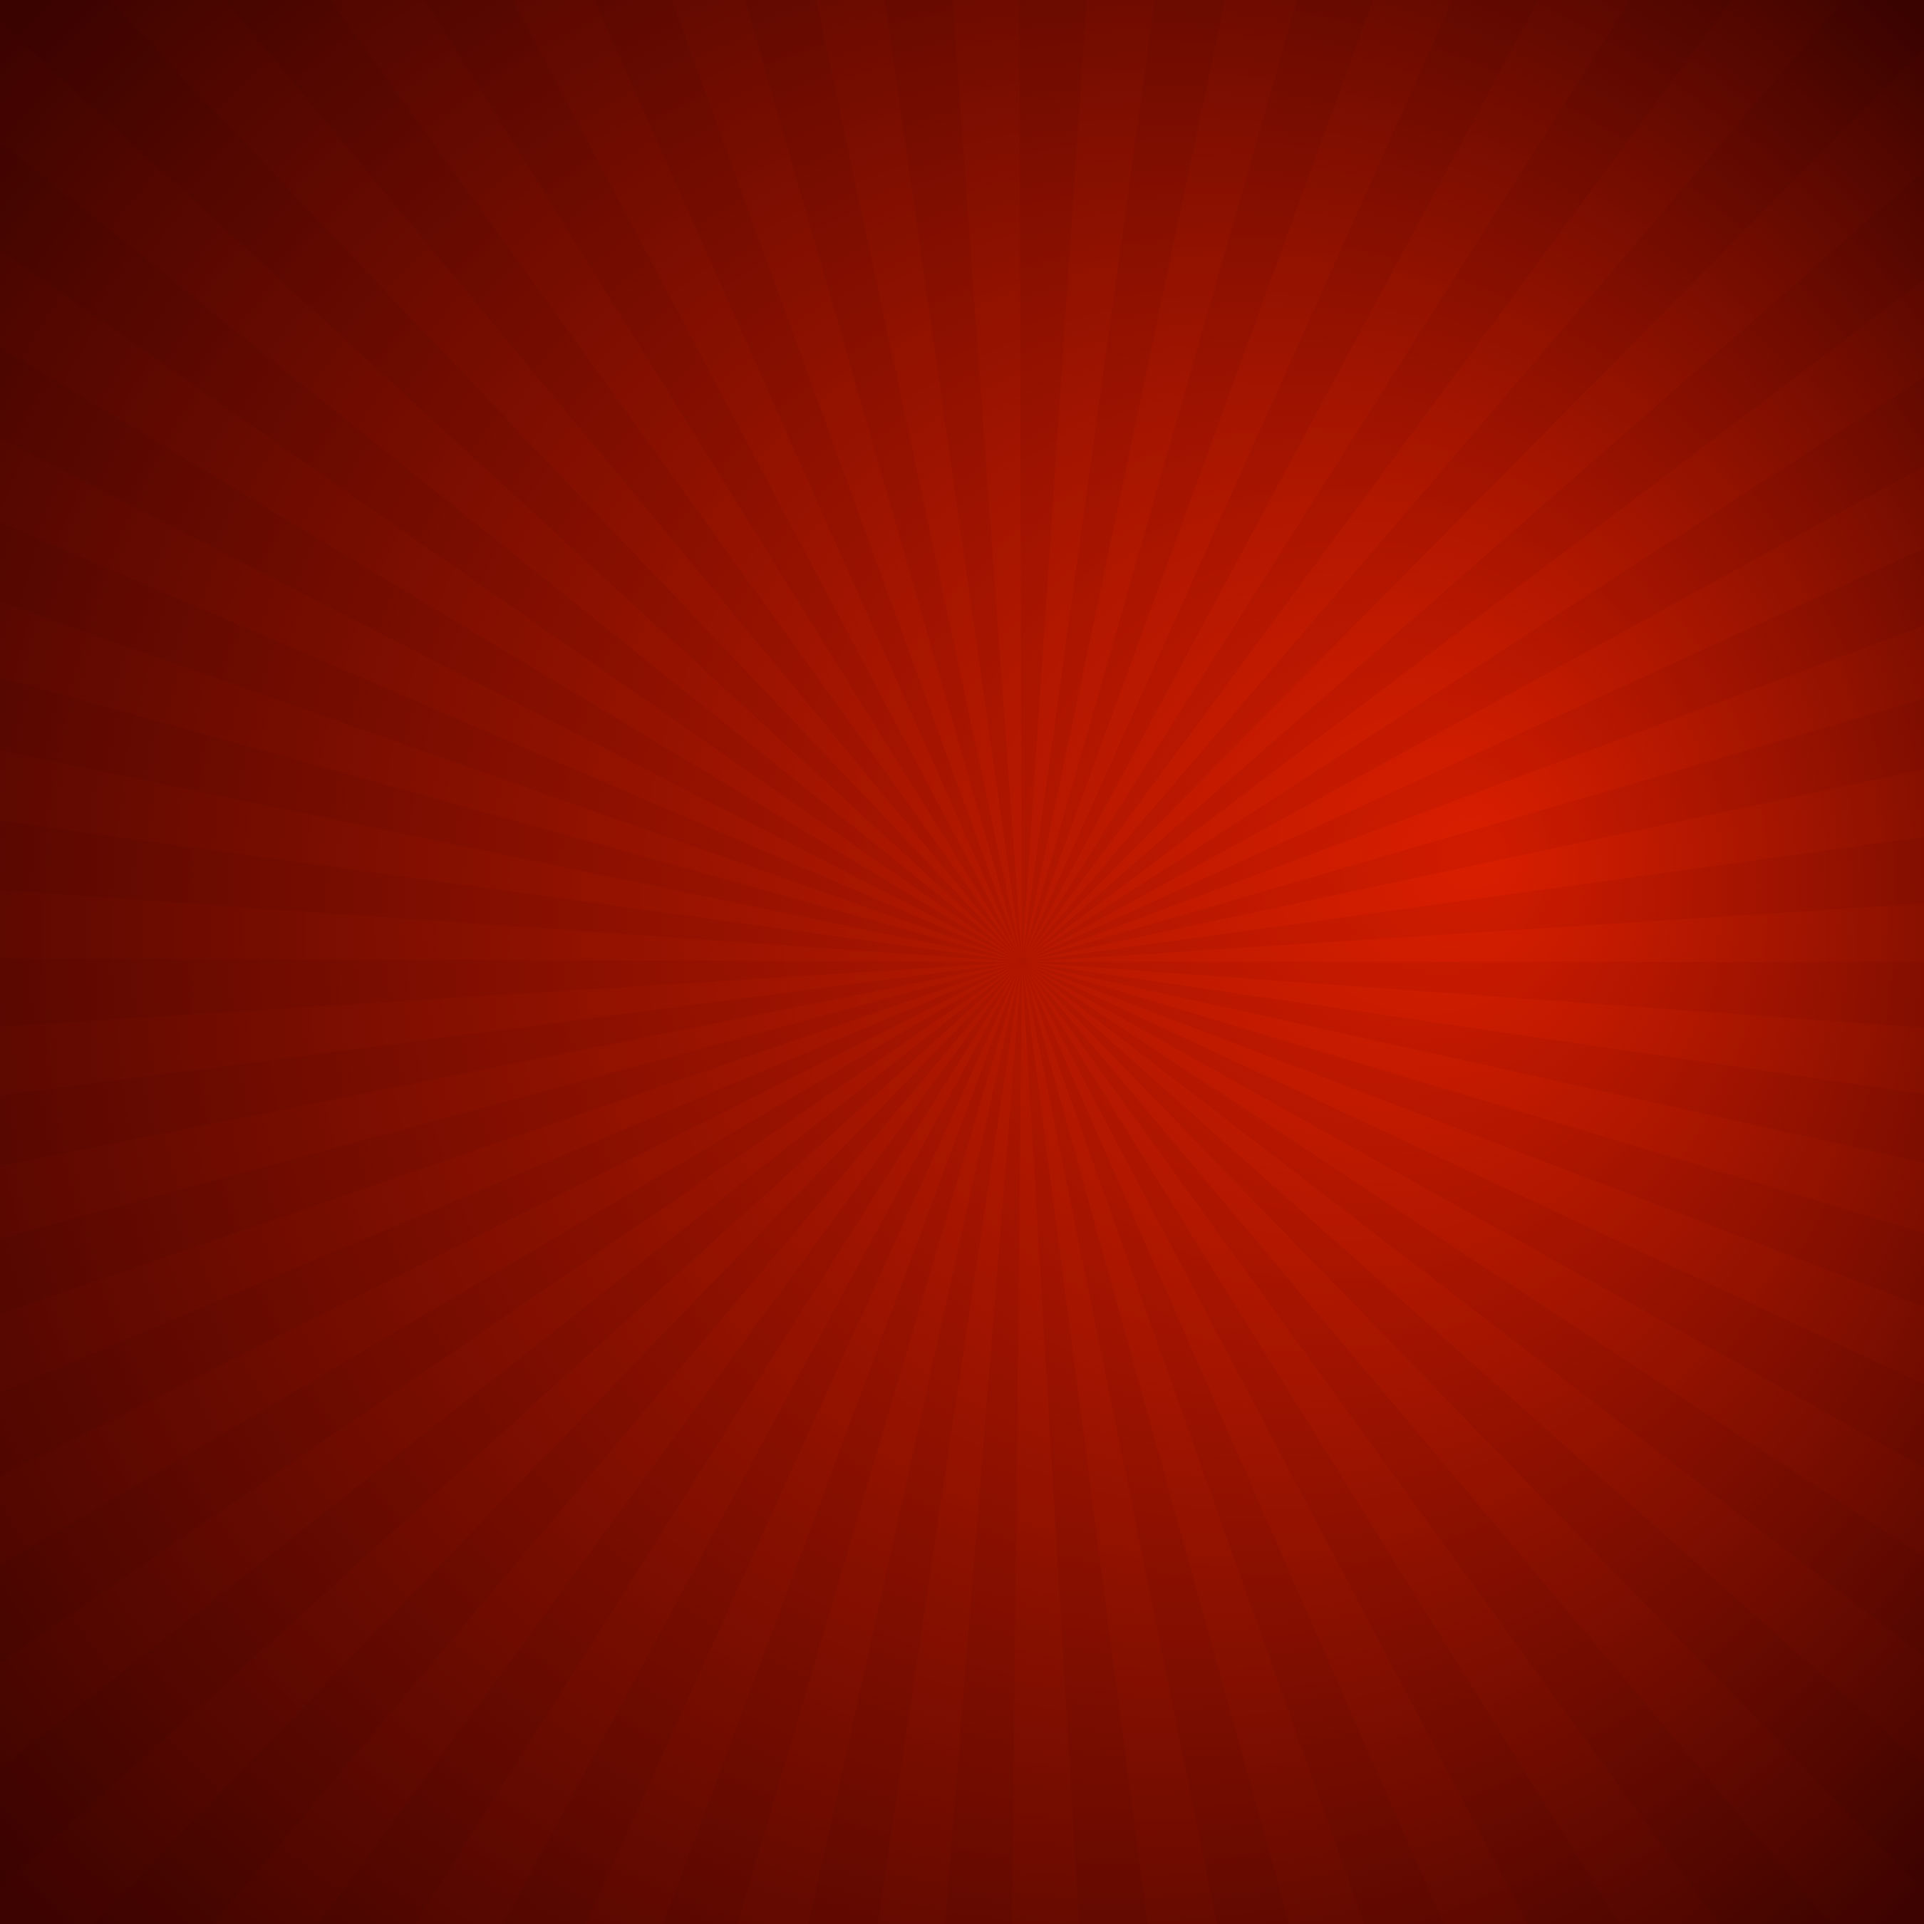
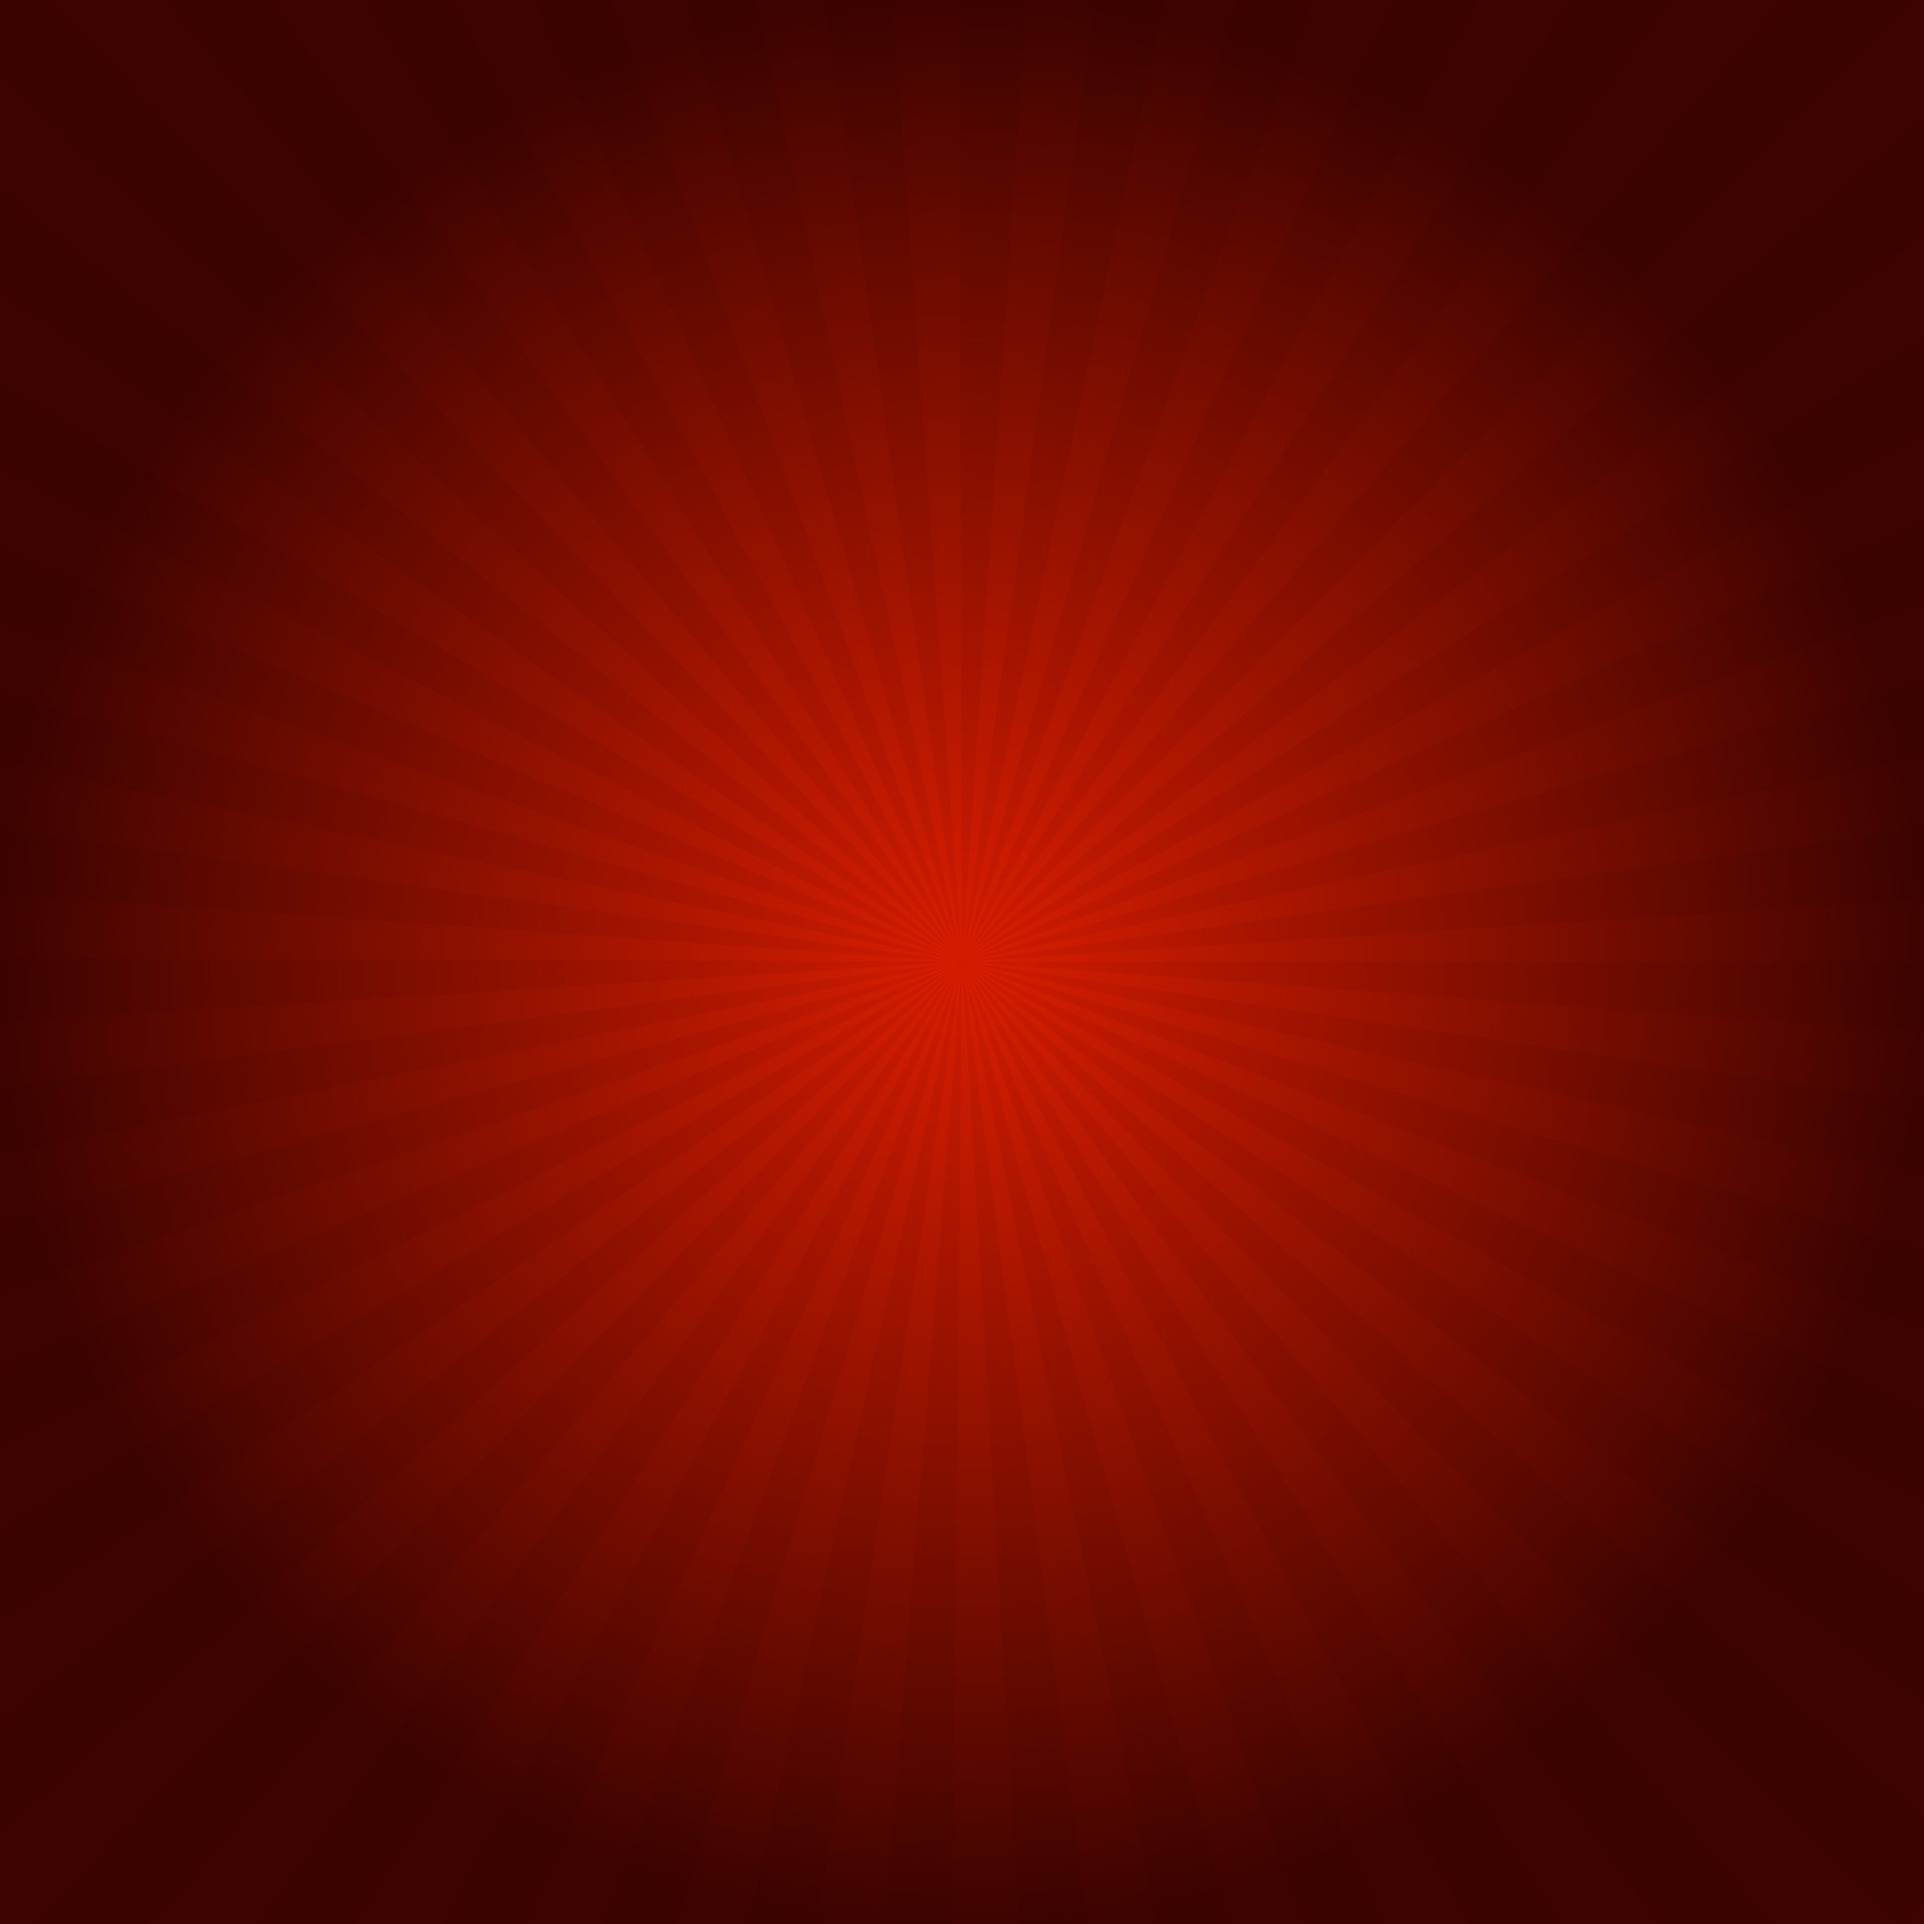
bg tinkering

diff --git a/src/App.js b/src/App.js
@@ -18,8 +18,8 @@ class App extends Component {
     if (this.state.loggedIn){
       body[0].style.background = '#fff';
     }else{
-      body[0].style.backgroundImage = `url('./assets/bg.svg')`;
-      body[0].style.backgroundSize = '250%';
+      body[0].style.backgroundImage = `url('./assets/bg.jpg')`;
+      body[0].style.backgroundSize = '150%';
       body[0].style.backgroundPosition = 'center';
       body[0].style.backgroundRepeat = 'no-repeat';
     }
